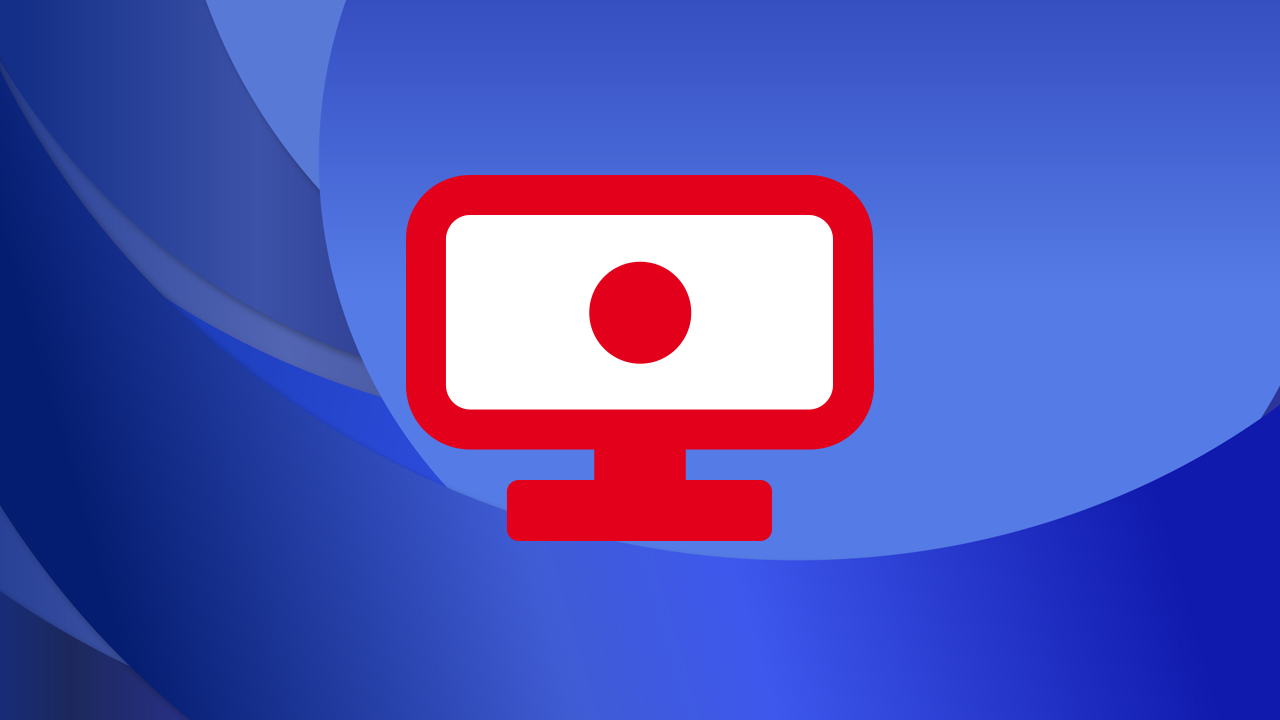
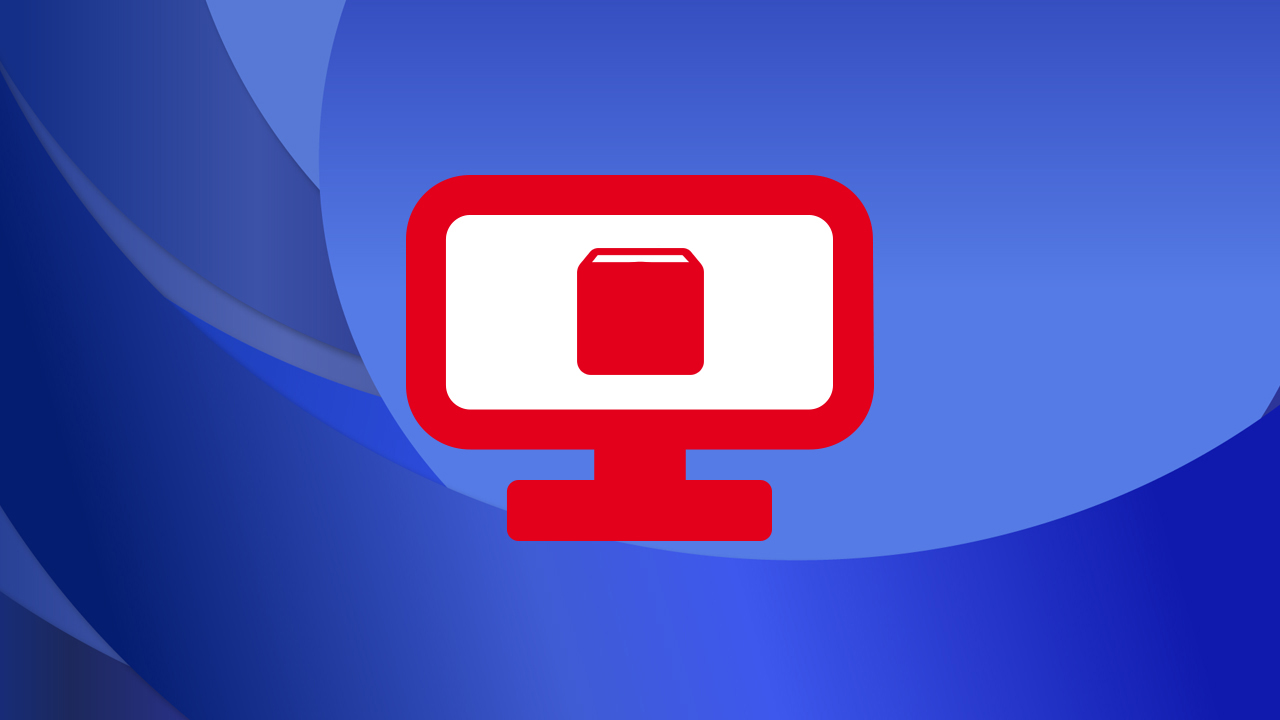
0.6.1 - added archive feature

Changed region(s): [[0.4375, 0.3361, 0.5625, 0.5194]]

diff --git a/resources/lib/htmlscraper.py b/resources/lib/htmlscraper.py
@@ -185,6 +185,7 @@ class htmlScraper(Scraper):
     
     # Parses Details for the selected Show
     def getCategoriesDetail(self,category,banner):
+        print "GET CAT DETAILS"
         url =  urllib.unquote(category)
         banner =  urllib.unquote(banner)
         html = common.fetchPage({'link': url})
@@ -196,6 +197,7 @@ class htmlScraper(Scraper):
             showname = ""
         playerHeader = common.parseDOM(html.get("content"),name='header',attrs={'class': 'player_header'})
         bcast_info = common.parseDOM(playerHeader,name='div',attrs={'class': 'broadcast_information'})
+        
         
         try:
             current_duration = common.parseDOM(bcast_info,name='span',attrs={'class': 'meta.meta_duration'})
@@ -274,7 +276,29 @@ class htmlScraper(Scraper):
             liz = self.html2ListItem(title,"","","","",date,"",url,None,True,'false');
     
     def getArchiv(self):
-        pass
+        html = common.fetchPage({'link': self.__urlArchive})
+        html_content = html.get("content")
+            
+        content = common.parseDOM(html_content,name='section',attrs={'class':'mod_archive_items.*?'})
+        archives = common.parseDOM(content,name='article',attrs={'class':'item'})
+
+        for archive in archives:
+            title = common.parseDOM(archive,name='h4',attrs={'class':'item_title'})
+            if title[0]:
+                title = common.replaceHTMLCodes(title[0]).encode('UTF-8')
+
+                link = common.parseDOM(archive,name='a',attrs={},ret="href")
+                link = common.replaceHTMLCodes(link[0]).encode('UTF-8')
+
+                image = common.parseDOM(archive,name='img',ret="src")
+                image = common.replaceHTMLCodes(image[0]).replace("width=395","width=500").replace("height=209.07070707071","height=265").encode('UTF-8')
+                
+                description = common.parseDOM(archive,name='div',attrs={'class':'item_description'})
+                description = common.replaceHTMLCodes(description[0]).encode('UTF-8')
+
+                parameters = {"link" : link,"title" : title,"banner" : image,"backdrop" : "", "mode" : "getArchiveDetail"}
+                url = sys.argv[0] + '?' + urllib.urlencode(parameters)
+                liz = self.html2ListItem(title,image,"",description,"","","",url,None,True,'false');
     
     # Creates a XBMC List Item
     def html2ListItem(self,title,banner,backdrop,description,duration,date,channel,videourl,subtitles=None,folder=True,playable='false'):
@@ -574,13 +598,14 @@ class htmlScraper(Scraper):
                 liz = self.html2ListItem(title,image,"",description,"","","",url,None,True,'false');
 
     
-    # Parses the Topic Detail Page
-    def getThemenDetail(self,url):
+    # Parses the Archive Detail Page
+    def getArchiveDetail(self,url):
         url = urllib.unquote(url)
         html = common.fetchPage({'link': url})
         html_content = html.get("content")
         
         content = common.parseDOM(html_content,name='section',attrs={'class':'mod_container_list.*?'})
+        
         topics = common.parseDOM(content,name='article',attrs={'class':'item.*?'})
 
         for topic in topics:

diff --git a/default.py b/default.py
@@ -119,9 +119,10 @@ def getMainMenu():
     addDirectory((translation(30005)).encode("utf-8"),tips_banner,defaultbackdrop, "","","getTipps",pluginhandle)
     addDirectory((translation(30006)).encode("utf-8"),most_popular_banner,defaultbackdrop, "","","getMostViewed",pluginhandle)
     addDirectory((translation(30018)).encode("utf-8"),schedule_banner,defaultbackdrop, "","","getSchedule",pluginhandle)
+    if not useServiceAPI:
+        addDirectory((translation(30049)).encode("utf-8"),schedule_banner,defaultbackdrop, "","","getArchiv",pluginhandle)
     addDirectory((translation(30007)).encode("utf-8"),search_banner,defaultbackdrop, "","","getSearchHistory",pluginhandle)
-    if useServiceAPI:
-        addDirectory((translation(30027)).encode("utf-8"),trailer_banner,defaultbackdrop, "","","openTrailers",pluginhandle)
+    addDirectory((translation(30027)).encode("utf-8"),trailer_banner,defaultbackdrop, "","","openTrailers",pluginhandle)
     if enableBlacklist:
         addDirectory((translation(30037)).encode("utf-8"),blacklist_banner,defaultbackdrop, "","","openBlacklist",pluginhandle)
     listCallback(False,thumbViewMode,pluginhandle)
@@ -198,6 +199,9 @@ elif mode == 'getSendungenDetail':
     listCallback(False,defaultViewMode,pluginhandle)
 elif mode == 'getThemenDetail':
     htmlScraper.getThemenDetail(link)
+    listCallback(False,defaultViewMode,pluginhandle)
+elif mode == 'getArchiveDetail':
+    htmlScraper.getArchiveDetail(link)
     listCallback(False,defaultViewMode,pluginhandle)
 elif mode == 'getSchedule':
     scraper.getSchedule()
